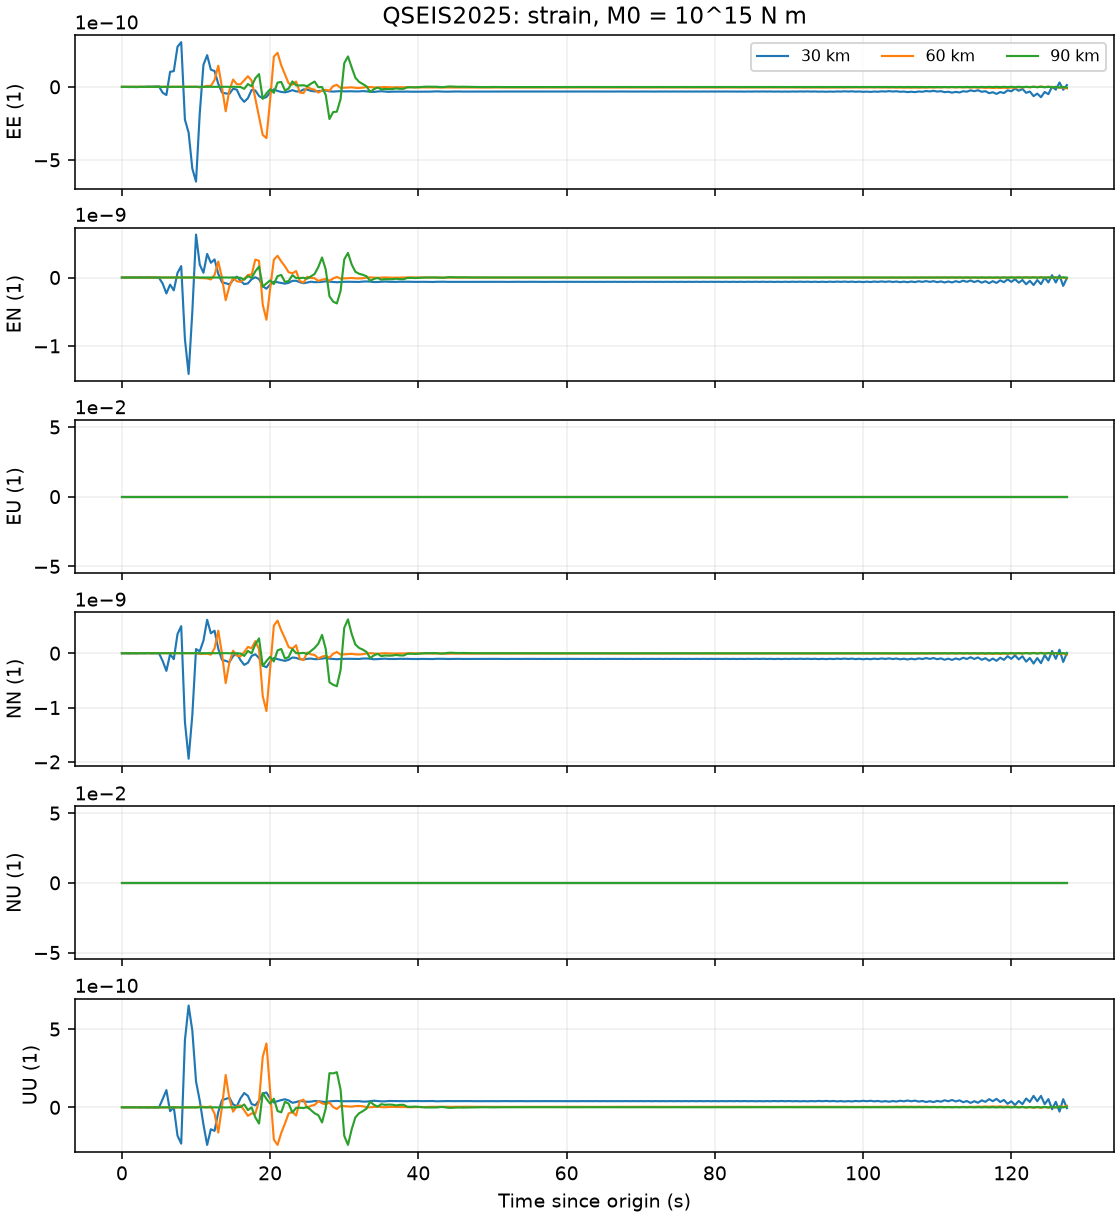
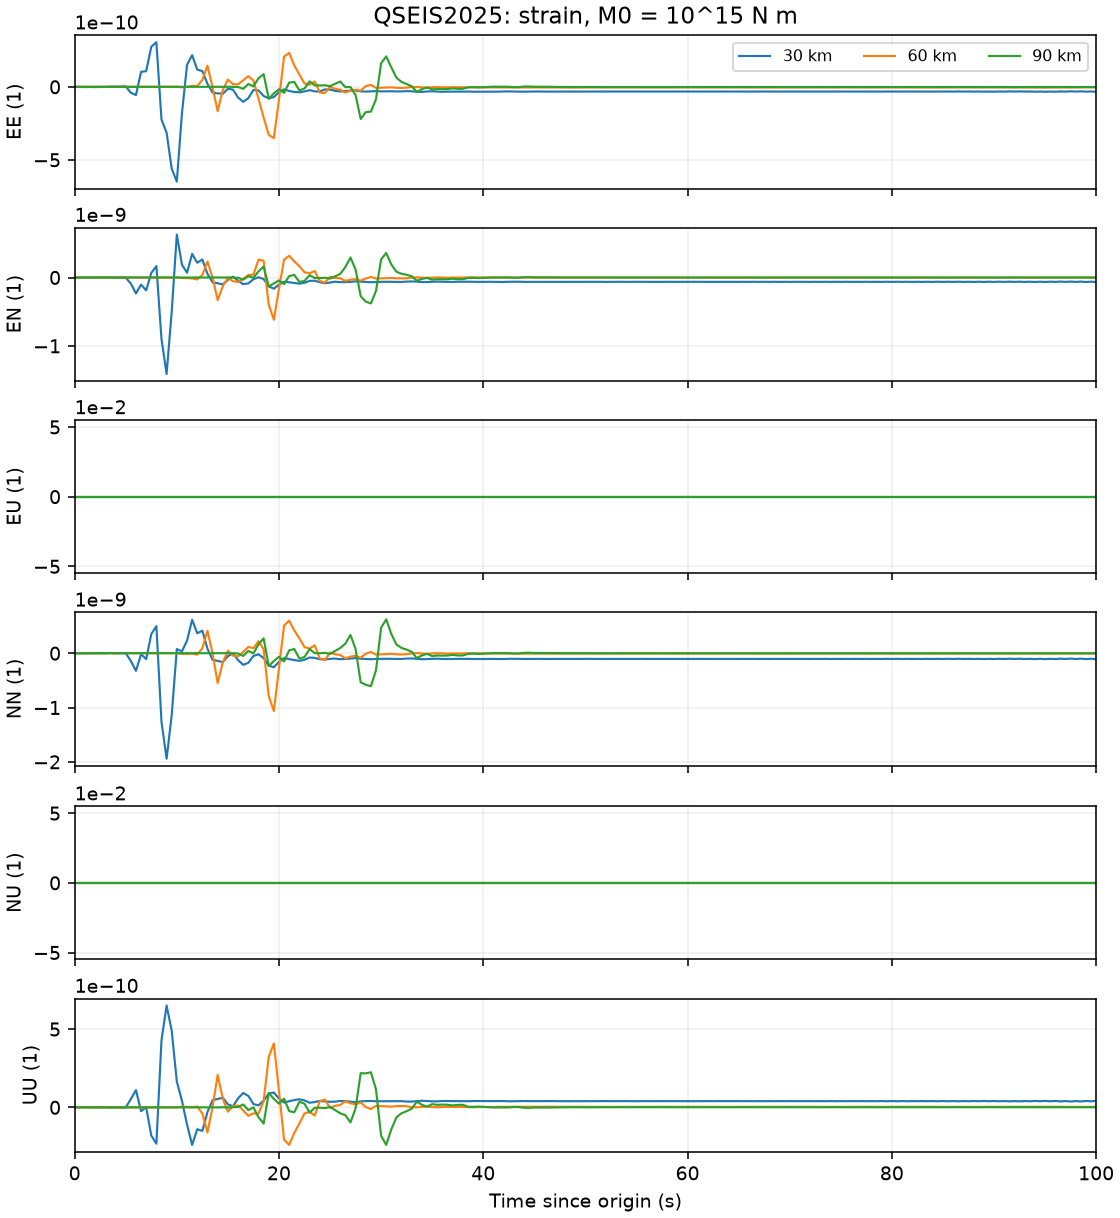
Crop QSEIS2025 example waveforms and figures to 100 seconds

diff --git a/examples/qseis2025.py b/examples/qseis2025.py
@@ -1,4 +1,4 @@
-"""Build, read and plot three QSEIS2025 traces; optionally include tensors."""
+"""Build QSEIS2025 traces and save 0-100 s waveforms; optionally include tensors."""
 from common import (MECHANISM, MOMENT_NM, finish, parser_for, prepare,
                     save_waveforms)
 from pygrnwang.create_qseis2025_bulk import (
@@ -12,7 +12,9 @@ def main():
                         help="all also computes strain and stress")
     args = parser.parse_args()
     output, library, model, report, started = prepare(args, "QSEIS2025")
-    dt, window = 0.5, 127.5  # 256 samples; QSEIS durations below are sample counts.
+    dt, window = 0.5, 127.5  # Native library: 256 samples.
+    output_end = 100.0
+    output_samples = int(round(output_end / dt)) + 1  # Include the 100 s sample.
     distances = [30.0, 60.0, 90.0]
     if not args.reuse:
         pre_process_qseis2025(
@@ -33,10 +35,13 @@ def main():
             srate=1 / dt, output_type=observable, rotate=True,
             before_p=None, shift=False, pad_zeros=False,
         ) for distance in distances]
+        arrays = [values[:, :output_samples] for values in arrays]
         labels = ["E", "N", "U"] if observable == "disp" else ["EE", "EN", "EU", "NN", "NU", "UU"]
         unit = {"disp": "m", "strain": "1", "stress": "Pa"}[observable]
-        save_waveforms(output, report, observable, arrays, distances, dt, labels, unit)
-    report.update(sampling_interval_s=dt, time_window_s=window, distances_km=distances,
+        save_waveforms(output, report, observable, arrays, distances, dt, labels, unit,
+                       expected_samples=output_samples, time_limits=(0.0, output_end))
+    report.update(sampling_interval_s=dt, time_window_s=window,
+                  output_time_range_s=[0.0, output_end], distances_km=distances,
                   earth_model_numeric_rows=24, wavelet_type=2, wavelet_duration_samples=4)
     finish(output, report, started)
 

diff --git a/examples/common.py b/examples/common.py
@@ -59,13 +59,15 @@ def prepare(args, backend, extra=None):
 
 
 def save_waveforms(output, report, name, arrays, distances, dt, labels,
-                   unit, time_label="Time since origin (s)", start_times=None):
+                   unit, time_label="Time since origin (s)", start_times=None,
+                   expected_samples=256, time_limits=None):
     """Check shape/finiteness/nonzero output and save physical-unit arrays/plots."""
     values = np.asarray(arrays)
     if values.ndim != 3 or values.shape[:2] != (len(distances), len(labels)):
         raise AssertionError("Unexpected waveform shape: %s" % (values.shape,))
-    if values.shape[2] != 256 or not np.isfinite(values).all() or not np.all(np.any(values != 0, axis=(1, 2))):
-        raise AssertionError("Each distance must have 256 finite samples and a nonzero waveform")
+    if values.shape[2] != expected_samples or not np.isfinite(values).all() or not np.all(np.any(values != 0, axis=(1, 2))):
+        raise AssertionError("Each distance must have %d finite samples and a nonzero waveform"
+                             % expected_samples)
     starts = np.zeros(len(distances)) if start_times is None else np.asarray(start_times)
     times = starts[:, None] + np.arange(values.shape[2])[None, :] * dt
     np.savez_compressed(output / (name + ".npz"), values=values, time_s=times,
@@ -83,6 +85,8 @@ def save_waveforms(output, report, name, arrays, distances, dt, labels,
     axes[0, 0].legend(ncol=len(distances), fontsize=8)
     axes[0, 0].set_title("%s: %s, M0 = 10^15 N m" % (report["backend"], name))
     axes[-1, 0].set_xlabel(time_label)
+    if time_limits is not None:
+        axes[-1, 0].set_xlim(*time_limits)
     fig.savefig(output / (name + ".png"), dpi=140)
     plt.close(fig)
     report["outputs"][name] = {"shape": list(values.shape), "components": labels,

diff --git a/docs/quickstart.md b/docs/quickstart.md
@@ -1,6 +1,6 @@
 # Quickstart: QSEIS2025
 
-This example computes a small Green's-function library, synthesizes displacement and writes a figure. It uses the AK135 model content included with pygrnwang, one source depth, one receiver depth and three distances. Computation is serial. The source is 10 km deep, receivers are at the surface and distances are 30, 60 and 90 km. The sampling interval is 0.5 s and the 127.5 s window contains 256 samples. The layered calculation uses the first 24 numeric model rows, down to 809.5 km. Constant Qp=600 and Qs=300 are illustrative tutorial choices, not the full AK135-F attenuation model. The mechanism is strike 30°, dip 45°, rake 90°, scaled to M0 = 10^15 N m.
+This example computes a small Green's-function library, synthesizes displacement and writes a figure. It uses the AK135 model content included with pygrnwang, one source depth, one receiver depth and three distances. Computation is serial. The source is 10 km deep, receivers are at the surface and distances are 30, 60 and 90 km. The native library uses a 0.5 s sampling interval and a 127.5 s window containing 256 samples. After synthesis, the example crops every saved waveform and plot to 0–100 s inclusive, giving 201 samples without changing the underlying library. The layered calculation uses the first 24 numeric model rows, down to 809.5 km. Constant Qp=600 and Qs=300 are illustrative tutorial choices, not the full AK135-F attenuation model. The mechanism is strike 30°, dip 45°, rake 90°, scaled to M0 = 10^15 N m.
 
 ## 1. Prepare the environment
 
@@ -22,13 +22,13 @@ The script prepares a local model, writes solver input, runs QSEIS2025, converts
 
 ## 3. Inspect the result
 
-Look for `disp.png`, `disp.npz` and `summary.json` in the output directory. The summary records the environment, calculation time, array dimensions and output size. The underlying library contains geometry metadata and the solver's converted binary arrays.
+Look for `disp.png`, `disp.npz` and `summary.json` in the output directory. The saved displacement array has shape `(3, 3, 201)`: three distances, three components and samples from 0 to 100 s inclusive. The summary records the environment, calculation time, array dimensions and output size. The underlying library retains its full 256-sample solver output, geometry metadata and converted binary arrays.
 
 ```{figure} _static/examples/qseis2025.png
 :alt: QSEIS2025 example displacement traces from a small AK135 Green's-function library.
 :width: 100%
 
-Output from the validated QSEIS2025 example. Its model, mechanism and numerical choices are shown in the script below.
+Validated QSEIS2025 displacement, cropped to 0–100 s since source origin. Its model, mechanism and numerical choices are shown in the script below.
 ```
 
 The vector reader uses **east, north, up** when `rotate=True`. Displacement is reported in metres for the moment specified by the script. The plotting time axis must be interpreted with the example's reduction and sampling settings; it is not automatically a P-relative axis. See [scientific conventions](conventions.md) before changing these settings.
@@ -41,7 +41,7 @@ Use a separate directory because the output flags change the computed library:
 python examples/qseis2025.py --observables all --output-dir examples/output/qseis2025-all
 ```
 
-The script reads displacement, strain and stress. With geographic rotation enabled, symmetric tensors are stored as `[EE, EN, EU, NN, NU, UU]`; U is the same upward vertical component called Z elsewhere in the code. Strain is dimensionless and stress is in pascals for the chosen source moment. These curves are a small workflow example, not a convergence study.
+The script reads displacement, strain and stress, then crops all three to 0–100 s inclusive before saving arrays and figures. The saved strain/stress arrays have shape `(3, 6, 201)`. With geographic rotation enabled, symmetric tensors are stored as `[EE, EN, EU, NN, NU, UU]`; U is the same upward vertical component called Z elsewhere in the code. Strain is dimensionless and stress is in pascals for the chosen source moment. These curves are a small workflow example, not a convergence study.
 
 ## 5. Reuse a finished example
 

diff --git a/docs/validation.md b/docs/validation.md
@@ -20,7 +20,7 @@ They are measurements for these small examples, not performance guarantees.
 
 | Workflow | Command argument | Validated output shape | Time | Output size | Machine-readable record |
 |---|---|---|---:|---:|---|
-| QSEIS2025 | `--observables all` | displacement `(3, 3, 256)`; strain/stress `(3, 6, 256)` | 14.6 s | 1.23 MiB | [JSON](_static/examples/qseis2025.json) |
+| QSEIS2025 | `--observables all` | displacement `(3, 3, 201)`; strain/stress `(3, 6, 201)` | 13.3 s | 1.21 MiB | [JSON](_static/examples/qseis2025.json) |
 | QSEIS06 | default | `(3, 3, 256)` | 13.0 s | 0.38 MiB | [JSON](_static/examples/qseis06.json) |
 | SPGRN2012 | default | `(3, 3, 256)` | 9.4 s | 12.54 MiB | [JSON](_static/examples/spgrn2012.json) |
 | SPGRN2020 | default | `(3, 3, 256)` | 9.7 s | 17.10 MiB | [JSON](_static/examples/spgrn2020.json) |
@@ -31,10 +31,21 @@ The dynamic array axes are distance, component and sample. The static axes are
 distance and component. The default displacement-only QSEIS2025 command was also
 executed independently in a fresh output directory.
 
-## Cross-platform installation and execution
+The QSEIS2025 run and figures were refreshed after cropping every exported
+observable to 0–100 s inclusive. At 0.5 s spacing, the NPZ arrays contain
+201 samples; each was checked against the first 201 samples of the previous
+full waveform. Its native library still contains 256 samples over 127.5 s.
+The JSON records the exported interval in `output_time_range_s` separately
+from the native `time_window_s`. The refreshed displacement-only run took
+11.4 s.
+
+## Initial cross-platform installation and execution
 
 [GitHub Actions run 34801126315](https://github.com/Zhou-Jiangcheng/pygrnwang/actions/runs/34801126315)
-built commit `0d38d44` from source in fresh Conda environments, using Python
+built commit `0d38d44` before the QSEIS2025 100 s crop. These archived records
+therefore retain its original 256-sample exported waveforms; the current
+201-sample exports are verified by the refreshed local run above. The CI run
+installed source in fresh Conda environments, using Python
 3.12.14 on Linux x86-64, Windows x86-64 and macOS arm64. All six workflows
 passed on every platform. The Windows job used
 `gfortran=15.2.0=hf1b5d6d_19`; the installation guide records why that exact
@@ -82,9 +93,10 @@ generated HTML and calculation libraries.
 
 ## What was checked
 
-- Every dynamic reader returned three-component displacement at three distances,
-  with 256 samples, finite values and a nonzero waveform. The QSEIS2025 extension
-  returned six-component strain and stress with the same distance/time grid.
+- Every dynamic example returned three-component displacement at three distances,
+  with finite values and a nonzero waveform. QSEIS2025 exports 201 samples over
+  0–100 s; the other dynamic examples retain 256 samples. QSEIS2025 strain and
+  stress have six components on the same exported distance/time grid.
 - EDGRN generated the layered kernels; EDCMP used those kernels for all five
   mechanism bases at both source depths. ASCII-to-binary conversion produced
   the bulk shape `(2, 1, 5, 5, 3)`, and the three queried displacements were finite.

diff --git a/docs/backends/qseis2025.md b/docs/backends/qseis2025.md
@@ -20,6 +20,8 @@ by the API.
 
 The source depth is 10 km, receiver depth 0 km, and distances are 30, 60 and
 90 km. The 0.5 s sample interval and 127.5 s window produce 256 native samples.
+After synthesis, every saved example waveform and figure is cropped to
+0–100 s inclusive (201 samples); the library keeps its full native window.
 The model uses the first 24 numeric rows and disables the flat-Earth
 transformation for this small half-space example. Moment is `10^15 N m`.
 
@@ -31,13 +33,15 @@ transformation for this small half-space example. Moment is `10^15 N m`.
 ```{figure} ../_static/examples/qseis2025.png
 :alt: Three-component QSEIS2025 displacement at three epicentral distances.
 
-Example displacement in metres. The horizontal axis is time since source
-origin because this example uses zero time reduction.
+Example displacement in metres with a fixed 0–100 s horizontal axis. Time is
+measured from source origin because this example uses zero time reduction.
 ```
 
 Results are under `examples/output/qseis2025/`. `disp.npz` contains the
 three distance traces, component labels, seconds and units; its waveform
-array has shape `(3, 3, 256)`. `summary.json` records checks and run details.
+array has shape `(3, 3, 201)` and includes both 0 s and 100 s.
+`summary.json` records checks and run details. The solver library still
+contains 256 samples per trace.
 Use `python examples/qseis2025.py --reuse` to read the completed library
 again without launching the solver.
 
@@ -51,21 +55,24 @@ python examples/qseis2025.py --observables all --output-dir examples/output/qsei
 
 This enables displacement, strain and stress; it writes `strain.npz/png`
 and `stress.npz/png` in addition to displacement. The tensor arrays have
-shape `(3, 6, 256)` and components EE, EN, EU, NN, NU, UU. Strain is
-dimensionless and stress is in Pa after the script's explicit moment scaling.
+shape `(3, 6, 201)` and components EE, EN, EU, NN, NU, UU. All three
+observables are cropped to 0–100 s inclusive before saving arrays and plots.
+Strain is dimensionless and stress is in Pa after the script's explicit
+moment scaling.
 
 ```{figure} ../_static/examples/qseis2025-strain.png
 :alt: Six ENU strain tensor components from the QSEIS2025 tensor tutorial.
 
-Dimensionless tensor strain at 30, 60 and 90 km; shear entries are tensor
-strains rather than engineering shear.
+Dimensionless tensor strain at 30, 60 and 90 km, cropped to 0–100 s since
+source origin; shear entries are tensor strains rather than engineering shear.
 ```
 
 ```{figure} ../_static/examples/qseis2025-stress.png
 :alt: Six ENU stress tensor components from the QSEIS2025 tensor tutorial.
 
-Stress in Pa for the same moment and geometry. The surface receiver's
-traction components can be zero under the free-surface boundary condition.
+Stress in Pa for the same moment and geometry, cropped to 0–100 s since source
+origin. The surface receiver's traction components can be zero under the
+free-surface boundary condition.
 ```
 
 The five `output_observables` positions are:

diff --git a/docs/zh/quickstart.md b/docs/zh/quickstart.md
@@ -16,17 +16,17 @@ Windows 非交互调用可使用：
 conda run -n pygrnwang python examples/qseis2025.py --output-dir examples/output/qseis2025
 ```
 
-脚本自动写出模型、预处理输入、运行 QSEIS2025、转换结果并读取合成波形。示例使用 10 km 震源深度、地表接收、30/60/90 km 距离，以及 0.5 s 采样间隔。模型的常数 Qp=600、Qs=300 是教程设置，并不代表完整 AK135-F 衰减模型。
+脚本自动写出模型、预处理输入、运行 QSEIS2025、转换结果并读取合成波形。示例使用 10 km 震源深度、地表接收、30/60/90 km 距离，以及 0.5 s 采样间隔。底层格林函数库仍计算 127.5 s、256 个采样点；合成后，将所有示例波形截取为 0–100 s（包含两端，共 201 点），再保存数组和绘图。模型的常数 Qp=600、Qs=300 是教程设置，并不代表完整 AK135-F 衰减模型。
 
 ## 2. 查看结果
 
-输出目录中包含 `disp.npz`、`disp.png`、`summary.json`、模型文件与 `library/`。NPZ 保存波形、时间、距离、分量标签及单位；摘要记录环境、运行时间、输出形状和文件大小。
+输出目录中包含 `disp.npz`、`disp.png`、`summary.json`、模型文件与 `library/`。NPZ 保存 0–100 s 的波形、时间、距离、分量标签及单位，位移数组形状为 `(3, 3, 201)`；摘要记录环境、运行时间、输出形状和文件大小。`library/` 保留完整的 256 点原生计算结果。
 
 ```{figure} ../_static/examples/qseis2025.png
 :alt: QSEIS2025 小算例的三分量位移波形。
 :width: 100%
 
-10 km 深度震源在三个距离处的合成位移；精确参数以共用脚本为准。
+10 km 深度震源在三个距离处的合成位移，截取发震后 0–100 s；精确参数以共用脚本为准。
 ```
 
 此示例的 `rotate=True` 对应 **东、北、上** 三分量。图中位移单位为米，震源矩为脚本中指定的 $10^{15}$ N m。图的横轴使用示例设定的时间零点；改变约化时间或平移选项后，应重新核对横轴含义。
@@ -39,7 +39,7 @@ conda run -n pygrnwang python examples/qseis2025.py --output-dir examples/output
 python examples/qseis2025.py --observables all --output-dir examples/output/qseis2025-all
 ```
 
-新增 `strain` 和 `stress` 的数组与图。启用地理旋转时，对称张量排列为 `[EE, EN, EU, NN, NU, UU]`，U 表示向上，也对应代码中的 Z。应变无量纲，应力单位为 Pa。不同后端未旋转张量的排列并不统一，详见[科学约定](../conventions.md)。
+新增 `strain` 和 `stress` 的数组与图。位移、应变、应力均保存和绘制 0–100 s；应变与应力数组形状为 `(3, 6, 201)`。启用地理旋转时，对称张量排列为 `[EE, EN, EU, NN, NU, UU]`，U 表示向上，也对应代码中的 Z。应变无量纲，应力单位为 Pa。不同后端未旋转张量的排列并不统一，详见[科学约定](../conventions.md)。
 
 ## 4. 复用已完成的计算
 

diff --git a/examples/README.md b/examples/README.md
@@ -32,7 +32,11 @@ Each run writes `ak135_tutorial.nd`, `library/`, `disp.npz`, `disp.png` and
 `summary.json`. QSEIS2025 `--observables all` also writes strain and stress arrays
 and figures. The arrays contain physical values for M0 = 10^15 N m. They record
 the components, units, distance grid and (for dynamic outputs) each trace's time
-axis. Figures use Matplotlib's noninteractive Agg backend.
+axis. QSEIS2025 crops displacement, strain and stress to 0–100 s inclusive
+before saving NPZ arrays and figures; every plot uses a fixed 0–100 s x-axis.
+At 0.5 s spacing, its saved displacement has shape `(3, 3, 201)` and its
+saved tensor outputs have shape `(3, 6, 201)`. Figures use Matplotlib's
+noninteractive Agg backend.
 
 Use `--reuse` only with the same script and observables as a successful earlier
 run. It reads and plots the existing library without rebuilding it and saves
@@ -49,8 +53,11 @@ Qs is unused where Vs is zero. Discontinuity labels are retained for TauP.
 
 QSEIS and EDGRN use the first 24 numeric rows (down to 809.5 km) as a regional
 layered half-space approximation; the spherical solvers use the full model.
-QSEIS uses 0.5 s sampling and a 127.5 s output window. The spherical tutorials
-use 4 s sampling, a 4092 s spectral window and a 1020 s output window, with a
+QSEIS uses 0.5 s sampling and a native 127.5 s window (256 samples).
+QSEIS2025 then crops its saved example outputs to 0–100 s (201 samples);
+its solver library remains unchanged. QSEIS06 retains all 256 samples.
+The spherical tutorials use 4 s sampling, a 4092 s spectral window and a
+1020 s output window, with a
 64 s source duration and 0.0625 Hz cutoff. The longer spectral window reduces
 periodic contamination in the shorter output window. QSSP's harmonic limit
 is 800; these settings demonstrate the workflow and are not a convergence
@@ -63,7 +70,9 @@ finite source corners can exceed a boundary even when the reference point
 lies on it. The material lookup uses the generated four-column `library/noQ.nd`.
 
 Each dynamic output is checked for three distances, the requested component
-count, exactly 256 samples, finite values and a nonzero signal at each distance.
+count, finite values and a nonzero signal at each distance. QSEIS2025's
+saved outputs contain exactly 201 samples over 0–100 s inclusive; the other
+dynamic tutorials retain 256 samples.
 Static output is checked for shape `(3, 3)`, finite values and a nonzero result.
 A successful tutorial checks installation and data flow; research calculations
 also require physical validation and parameter convergence tests.

diff --git a/docs/changelog.md b/docs/changelog.md
@@ -6,6 +6,7 @@
 
 - Added an English user guide and API reference, with Chinese installation and QSEIS2025 quickstart pages.
 - Added small executable tutorials for QSEIS2025, QSEIS06, SPGRN2012, SPGRN2020, QSSP2020 and EDGRN/EDCMP.
+- Cropped all QSEIS2025 tutorial displacement, strain and stress arrays and figures to 0–100 s inclusive (201 samples at 0.5 s). The native 127.5 s, 256-sample Green's library and other backend examples retain their original windows.
 - Documented coordinate/component order, source normalization, time reduction, waveform units and solver-specific limitations.
 - Added strict documentation builds, example validation and GitHub Pages deployment configuration.
 
